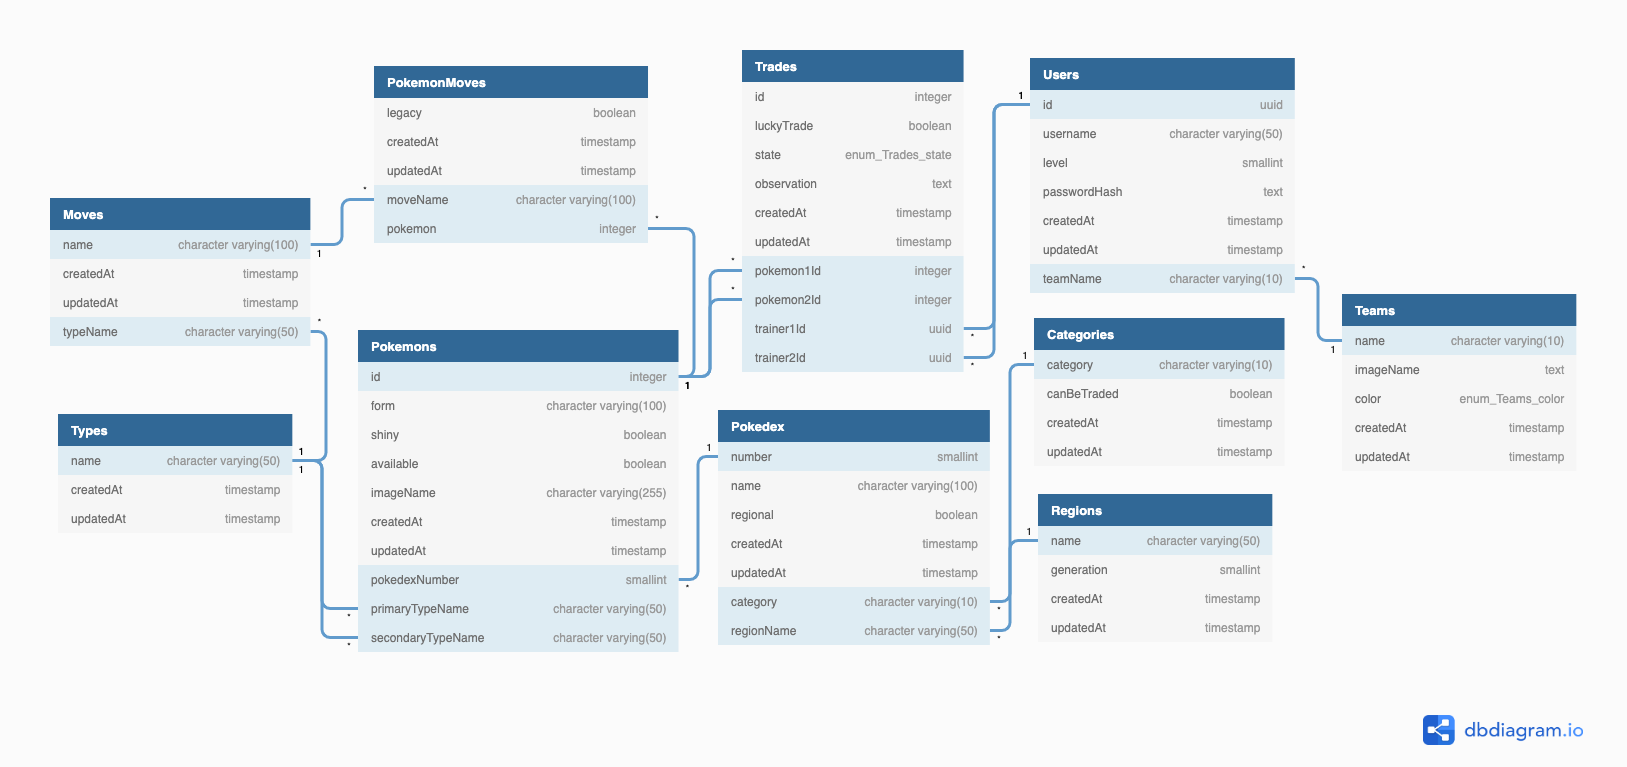
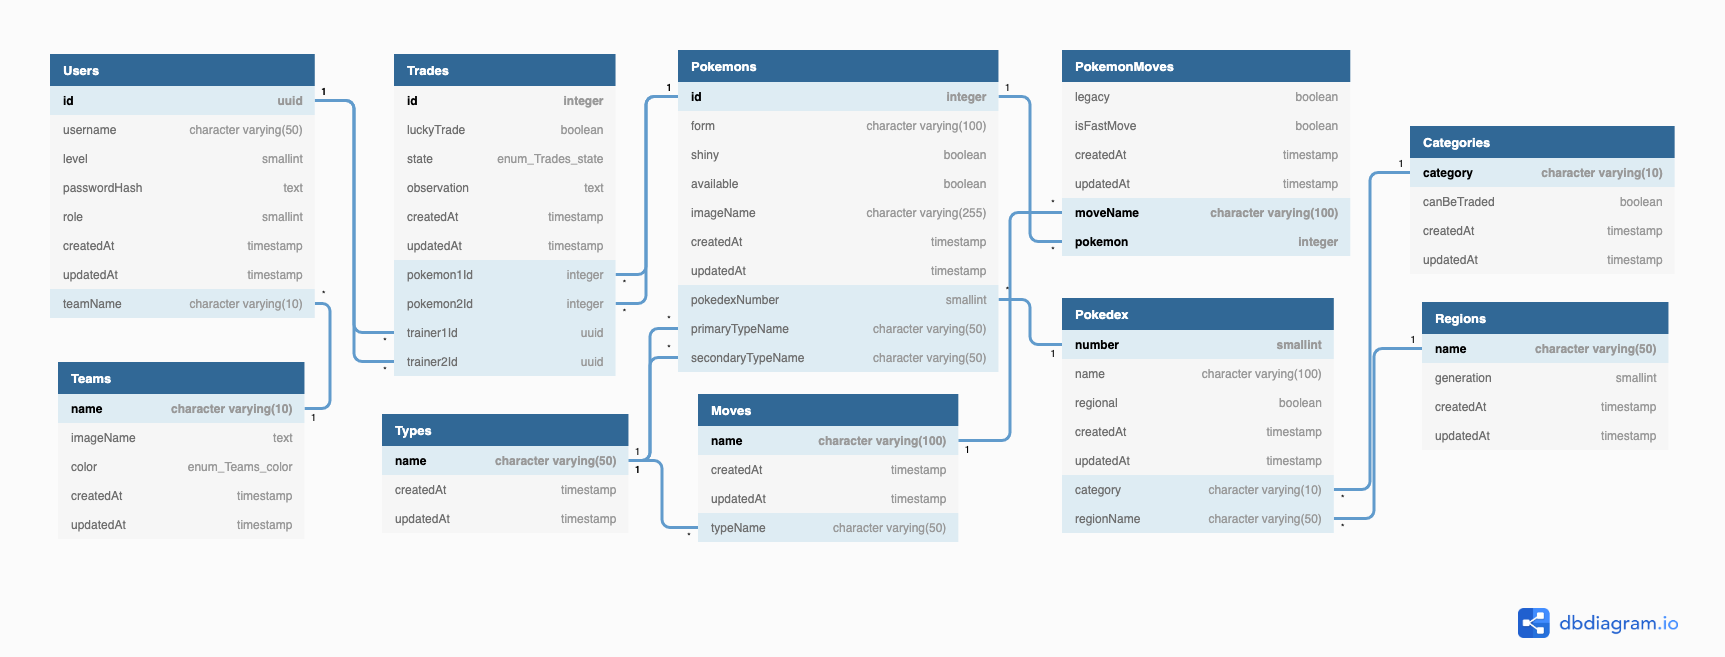
Update database model

Changed region(s): [[0.0307, 0.0609, 0.9834, 0.8524], [0.8605, 0.9132, 0.9834, 0.9741], [0.0307, 0.7915, 0.0922, 0.8219]]

diff --git a/models/user.js b/models/user.js
@@ -15,9 +15,9 @@ module.exports = (sequelize, Sequelize) => {
     level: {
       type: Sequelize.SMALLINT,
       allowNull: false,
-      defaultValue: 0,
+      defaultValue: 1,
       validate: {
-        min: 0,
+        min: 1,
         max: 40,
       },
     },
@@ -40,7 +40,7 @@ module.exports = (sequelize, Sequelize) => {
     models.User.belongsTo(models.Team, {
       foreignKey: {
         name: "teamName",
-        allowNull: false,
+        allowNull: true,
       },
     });
 

diff --git a/controllers/v1/type.js b/controllers/v1/type.js
@@ -18,13 +18,3 @@ Types.getAll = () => {
 Types.insertOne = data => {
   return db.Type.create(data);
 };
-
-/**
- * Insert multiple types
- * @param {Array} data - Array of data to insert on database
- * @param {Object} data[index] - Data to insert on database
- * @returns {Object} Data created on database
- */
-Types.insertMany = data => {
-  return db.Type.bulkCreate(data);
-};

diff --git a/models/team.js b/models/team.js
@@ -21,7 +21,7 @@ module.exports = (sequelize, Sequelize) => {
     models.Team.hasMany(models.User, {
       foreignKey: {
         name: "teamName",
-        allowNull: false,
+        allowNull: true,
       },
     });
   };
